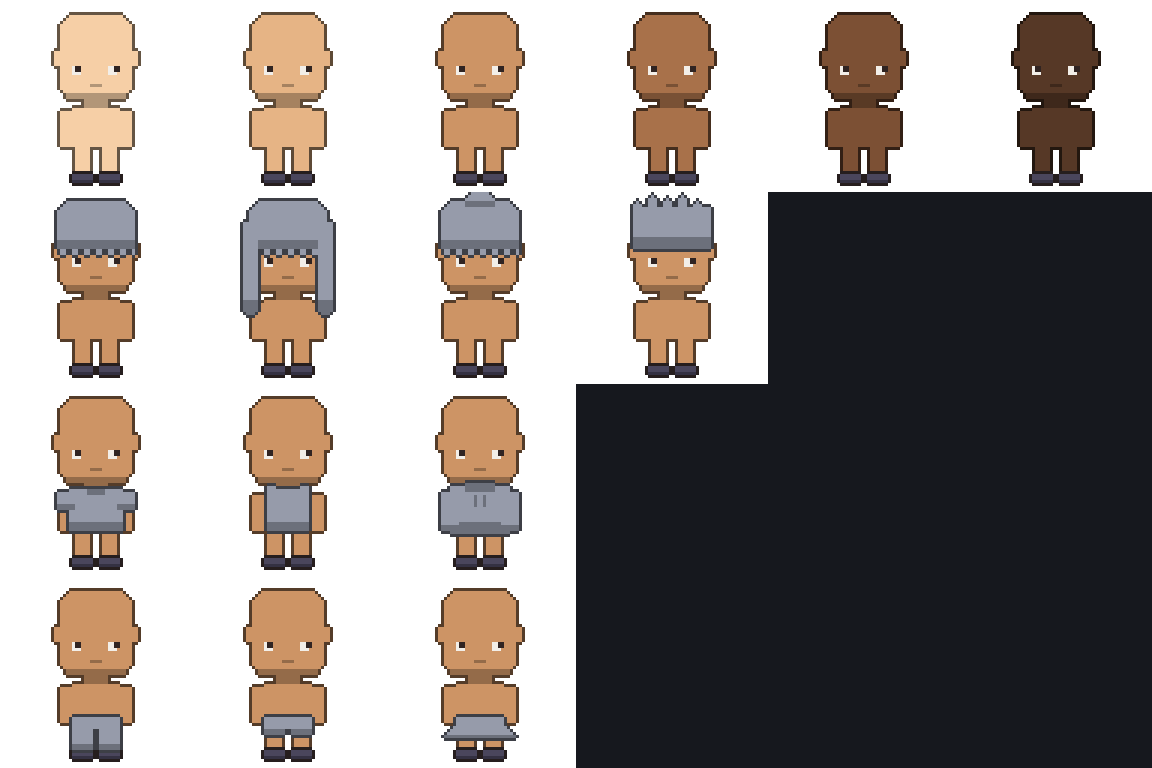
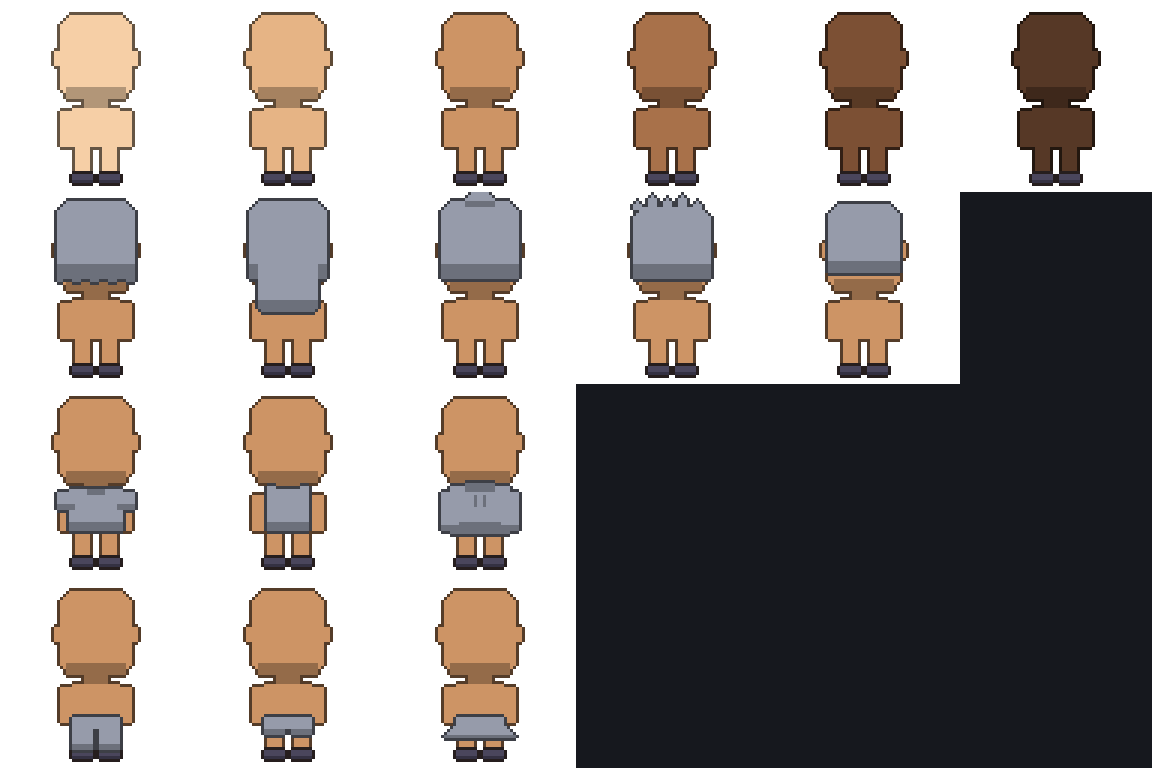
feat(arte): o personagem visto de costas, como o sprite original
Ele olha para cima, para o professor - e por isso o sprite original do jogo nao
tem rosto: o que aparece e a nuca. O template estava de frente, com olhos.

Isso APAGOU uma camada inteira. A peca "rosto" so existia para os olhos nao
serem tingidos junto com a pele, e ainda precisava de esclera clara para a
pupila nao sumir nos tons escuros. De costas nao ha olho nem boca, e o cabelo
cobre o cranio todo em vez de parar numa franja.

Entra tambem um cabelo raspado, que de costas faz sentido como opcao.

O cabelo comprido desce so ate o ombro e e mais estreito que o torso: na
primeira tentativa ele ia ate a cintura e cobria a camisa inteira - escolher
roupa deixava de ter efeito visivel.

diff --git a/Ferramentas/gerar_camadas.py b/Ferramentas/gerar_camadas.py
@@ -13,11 +13,17 @@ e aplicada por multiplicacao na hora de compor: cinza 255 devolve a cor escolhid
 tal e qual, e os tons mais escuros viram a sombra dela. Vale para o cabelo, para
 a roupa e TAMBEM para o corpo, cujo tom de pele e uma escolha como as outras.
 
-Duas pecas fogem disso e saem em cor final, justamente por nao acompanharem o
-tom de pele: "rosto" (os olhos) e "sapato". Se saissem junto com o corpo, mudar
-o tom de pele clarearia os olhos e os sapatos junto.
+Uma peca foge disso e sai em cor final, justamente por nao acompanhar o tom de
+pele: "sapato". Se saisse junto com o corpo, mudar o tom de pele clarearia os
+sapatos junto.
 
-A ordem de composicao e: corpo, rosto, sapato, calca, camisa, cabelo.
+A ordem de composicao e: corpo, sapato, calca, camisa, cabelo.
+
+O PERSONAGEM E VISTO DE COSTAS. Ele olha para cima, para o professor, que fica
+no topo da tela - e por isso o sprite original do jogo nao tem rosto: o que
+aparece e a nuca. Nao ha olho nem boca para desenhar, e o cabelo cobre a cabeca
+inteira em vez de parar numa franja. Isso APAGOU uma camada: a peca "rosto",
+que so existia para os olhos nao serem tingidos junto com a pele.
 
 A animacao segue a do sprite original: quadros 1 e 3 sao a pose neutra, 0 e 2
 sao os passos, e a CABECA NAO SE MEXE em nenhum deles - por isso o cabelo e uma
@@ -30,8 +36,6 @@ import os
 L = 64  # lado do quadro
 
 # ---------------------------------------------------------------- cores fixas
-OLHO       = ( 48,  36,  34, 255)
-ESCLERA    = (242, 238, 232, 255)
 SAPATO     = ( 74,  70,  92, 255)
 SAPATO_S   = ( 52,  49,  66, 255)
 CONTORNO   = ( 38,  30,  30, 255)
@@ -137,10 +141,10 @@ def corpo(quadro):
     ret(d, CABECA_X0 - 2, 17, CABECA_X0 - 1, 21, BASE)
     ret(d, CABECA_X1 + 1, 17, CABECA_X1 + 2, 21, BASE)
 
-    # sombra do queixo e a boca - ambas sao a PROPRIA pele mais escura, entao
-    # acompanham o tom escolhido em vez de serem uma cor fixa por cima dele.
-    ret(d, CABECA_X0 + 2, CABECA_Y1 - 1, CABECA_X1 - 2, CABECA_Y1, SOMBRA)
-    ret(d, 30, 28, 33, 28, SOMBRA)
+    # A NUCA, e nao um rosto: visto de costas, o que aparece abaixo do cabelo e
+    # a sombra da base da cabeca. E a PROPRIA pele mais escura, entao acompanha
+    # o tom escolhido em vez de ser uma cor fixa por cima dele.
+    ret(d, CABECA_X0 + 2, CABECA_Y1 - 3, CABECA_X1 - 2, CABECA_Y1, SOMBRA)
 
     # pescoco e torso
     ret(d, 28, 33, 35, 35, SOMBRA)
@@ -158,22 +162,6 @@ def corpo(quadro):
     return contornar(d, BORDA)
 
 
-def rosto(quadro):
-    """Os olhos. Cor fixa, porque olho nao muda com o tom de pele.
-
-    COM ESCLERA CLARA, e nao so a pupila escura: a pupila sozinha sumia nos
-    tons de pele mais escuros, porque o contorno da pele escura fica tao escuro
-    quanto ela. O branco ao lado garante o olho em qualquer tom.
-
-    A cabeca nao se mexe em quadro nenhum, entao esta peca e igual nos quatro.
-    """
-    d = {}
-    for x0, pupila in ((24, 25), (36, 38)):
-        ret(d, x0, 22, x0 + 2, 24, ESCLERA)
-        ret(d, pupila, 22, pupila + 1, 23, OLHO)
-    return d
-
-
 def sapato(quadro):
     """Os sapatos. Cor fixa, e acompanham o pe que levanta."""
     d = {}
@@ -186,40 +174,55 @@ def sapato(quadro):
 
 # --------------------------------------------------------------------- cabelo
 #
+# DE COSTAS o cabelo cobre a cabeca INTEIRA, parando um pouco acima da nuca -
+# nao ha franja, porque franja e coisa de quem esta de frente.
+#
 # A cabeca nao se mexe, entao o cabelo e o MESMO nos quatro quadros.
-def cabelo_curto():
-    d = {}
-    ret(d, CABECA_X0 - 1, CABECA_Y0 - 2, CABECA_X1 + 1, 18, BASE)
-    # franja irregular, para nao virar um capacete reto
-    for x in range(CABECA_X0 - 1, CABECA_X1 + 2):
-        if (x // 2) % 2 == 0:
-            ret(d, x, 19, x, 20, BASE)
-    ret(d, CABECA_X0 - 1, 16, CABECA_X1 + 1, 18, SOMBRA)
+
+# Ate onde o cabelo desce. Abaixo disto aparece a nuca.
+CABELO_Y1 = CABECA_Y1 - 4
+
+
+def _calota(d, y0=CABECA_Y0 - 2, y1=CABELO_Y1):
+    """A massa de cabelo que cobre o cranio, com os cantos de cima comidos."""
+    ret(d, CABECA_X0 - 1, y0, CABECA_X1 + 1, y1, BASE)
+    # a parte de baixo mais escura, para a cabeca nao sair chapada
+    ret(d, CABECA_X0 - 1, y1 - 4, CABECA_X1 + 1, y1, SOMBRA)
     for canto in (CABECA_X0 - 1, CABECA_X1 + 1):
         s = 1 if canto == CABECA_X0 - 1 else -1
         for i in range(3):
             for j in range(3 - i):
-                d.pop((canto + s * i, CABECA_Y0 - 2 + j), None)
+                d.pop((canto + s * i, y0 + j), None)
+    return d
+
+
+def cabelo_curto():
+    d = _calota({})
+    # barra irregular embaixo, para o corte nao sair reto como um capacete
+    for x in range(CABECA_X0 - 1, CABECA_X1 + 2):
+        if (x // 3) % 2 == 0:
+            ret(d, x, CABELO_Y1 + 1, x, CABELO_Y1 + 1, SOMBRA)
     return contornar(d, BORDA)
 
 
 def cabelo_longo():
-    d = cabelo_curto()
-    d = {k: v for k, v in d.items() if v != BORDA}
-    # Mechas descendo pelos lados, ate o ombro. Quatro pixels de largura, e nao
-    # dois: com dois elas liam como antena, nao como cabelo.
-    for x0 in (CABECA_X0 - 3, CABECA_X1 - 1):
-        ret(d, x0, 10, x0 + 4, TORSO_Y0 + 4, BASE)
-        ret(d, x0, TORSO_Y0, x0 + 4, TORSO_Y0 + 4, SOMBRA)
-        # ponta afinada, para a mecha nao terminar num corte reto
-        d.pop((x0, TORSO_Y0 + 4), None)
-        d.pop((x0 + 4, TORSO_Y0 + 4), None)
+    # De costas, cabelo comprido e uma massa SO: ele desce pelas costas em vez
+    # de emoldurar um rosto que nao esta a vista.
+    d = _calota({})
+
+    # DESCE ATE O OMBRO, E NAO ALEM, e mais estreito que o torso. Na primeira
+    # versao ele ia ate a cintura e era mais largo que o corpo: cobria a camisa
+    # inteira, e escolher roupa deixava de ter efeito visivel.
+    ret(d, CABECA_X0 + 2, 14, CABECA_X1 - 2, TORSO_Y0 + 3, BASE)
+    ret(d, CABECA_X0 + 2, TORSO_Y0, CABECA_X1 - 2, TORSO_Y0 + 3, SOMBRA)
+    # ponta levemente afinada, para nao terminar num corte reto
+    for x in (CABECA_X0 + 2, CABECA_X1 - 2):
+        d.pop((x, TORSO_Y0 + 3), None)
     return contornar(d, BORDA)
 
 
 def cabelo_coque():
-    d = cabelo_curto()
-    d = {k: v for k, v in d.items() if v != BORDA}
+    d = _calota({})
     # O coque ocupa toda a folga que existe acima da cabeca - cinco pixels - e
     # nem um a mais. Ver ForaDoQuadro.
     ret(d, CX - 5, 0, CX + 4, CABECA_Y0 - 1, BASE)
@@ -232,9 +235,7 @@ def cabelo_coque():
 
 
 def cabelo_espetado():
-    d = {}
-    ret(d, CABECA_X0 - 1, CABECA_Y0, CABECA_X1 + 1, 18, BASE)
-    ret(d, CABECA_X0 - 1, 15, CABECA_X1 + 1, 18, SOMBRA)
+    d = _calota({}, y0=CABECA_Y0)
 
     # Espetos de tres pixels de largura com dois de folga entre eles: colados,
     # os contornos de dois espetos vizinhos preenchiam o vao e o cabelo virava
@@ -248,6 +249,19 @@ def cabelo_espetado():
         d.pop((x, CABECA_Y0 - h), None)          # ponta afinada
         d.pop((x + 2, CABECA_Y0 - h), None)
         x += 5
+    return contornar(d, BORDA)
+
+
+def cabelo_raspado():
+    """Cabelo bem curto, colado no cranio. De costas e so uma sombra na cabeca."""
+    d = {}
+    ret(d, CABECA_X0, CABECA_Y0 - 1, CABECA_X1, CABELO_Y1 - 2, BASE)
+    ret(d, CABECA_X0, CABELO_Y1 - 5, CABECA_X1, CABELO_Y1 - 2, SOMBRA)
+    for canto in (CABECA_X0, CABECA_X1):
+        s = 1 if canto == CABECA_X0 else -1
+        for i in range(3):
+            for j in range(3 - i):
+                d.pop((canto + s * i, CABECA_Y0 - 1 + j), None)
     return contornar(d, BORDA)
 
 
@@ -327,12 +341,12 @@ def calca_saia(quadro):
 # ------------------------------------------------------------------- escrever
 PECAS = {
     'corpo':            corpo,
-    'rosto':            rosto,
     'sapato':           sapato,
     'cabelo_curto':     lambda q: cabelo_curto(),
     'cabelo_longo':     lambda q: cabelo_longo(),
     'cabelo_coque':     lambda q: cabelo_coque(),
     'cabelo_espetado':  lambda q: cabelo_espetado(),
+    'cabelo_raspado':   lambda q: cabelo_raspado(),
     'camisa_camiseta':  camisa_camiseta,
     'camisa_regata':    camisa_regata,
     'camisa_moletom':   camisa_moletom,

diff --git a/Documentacao/requisitos-perfil-e-personagem.md b/Documentacao/requisitos-perfil-e-personagem.md
@@ -40,10 +40,23 @@ e cor de cabelo, tipo e cor de camisa, tipo e cor de calça. A personagem de cad
 matrícula é montada a partir dessas escolhas.
 
 O **tom de pele** é uma escolha como as outras, e não uma cor fixa do template.
-Isso obriga duas partes do corpo a saírem em peças separadas, em cor fixa: os
-**olhos** e os **sapatos**. Tingidos junto com a pele, eles clareariam ou
-escureceriam com ela e deixariam de ser olhos e sapatos. Os olhos ainda levam
-esclera clara, senão a pupila some nos tons de pele mais escuros.
+Isso obriga os **sapatos** a saírem numa peça separada, em cor fixa: tingidos
+junto com a pele, eles clareariam com ela e deixariam de ser sapatos.
+
+### 2.1.1 — O personagem é visto de costas (D10)
+
+Ele olha para cima, para o professor, que é quem fica no topo da tela. É por
+isso que o sprite original do jogo não tem rosto: o que aparece é a nuca.
+
+Isso **apagou uma camada**. O template chegou a ser desenhado de frente, com
+olhos numa peça própria — eles precisavam ficar fora da camada de pele para não
+serem tingidos com ela, e ainda levavam esclera clara para não sumirem nos tons
+mais escuros. De costas nada disso existe: não há olho nem boca, e o cabelo
+cobre o crânio inteiro em vez de parar numa franja.
+
+O cabelo comprido desce só até o ombro, e é mais estreito que o torso. Na
+primeira tentativa ele ia até a cintura e cobria a camisa inteira — escolher
+roupa deixava de ter efeito visível, o que anula metade da tela de criação.
 
 **Por isso a ficha grava as escolhas desde a versão 4, e não um identificador de
 personagem pronta.** Se gravasse o identificador agora, trocar para as camadas
@@ -71,9 +84,9 @@ Compondo as camadas numa textura única ao carregar, tudo depois disso continua
 vendo **uma** sprite animada, com o mesmo atlas de quatro quadros, e nenhum
 desses pontos muda. O custo acontece uma vez por perfil carregado.
 
-A ordem é **corpo, rosto, sapato, calça, camisa, cabelo**: a camisa cobre a
-cintura da calça e o cabelo cobre a testa. Dessas, rosto e sapato não são
-tingidos; as outras são.
+A ordem é **corpo, sapato, calça, camisa, cabelo**: a camisa cobre a cintura da
+calça e o cabelo cai por cima do ombro da camisa. Dessas, só o sapato não é
+tingido.
 
 A **regra** de composição — quais camadas, em que ordem, com que cores — é
 pura e testável. Só o desenho dos pixels fica na ponte.
